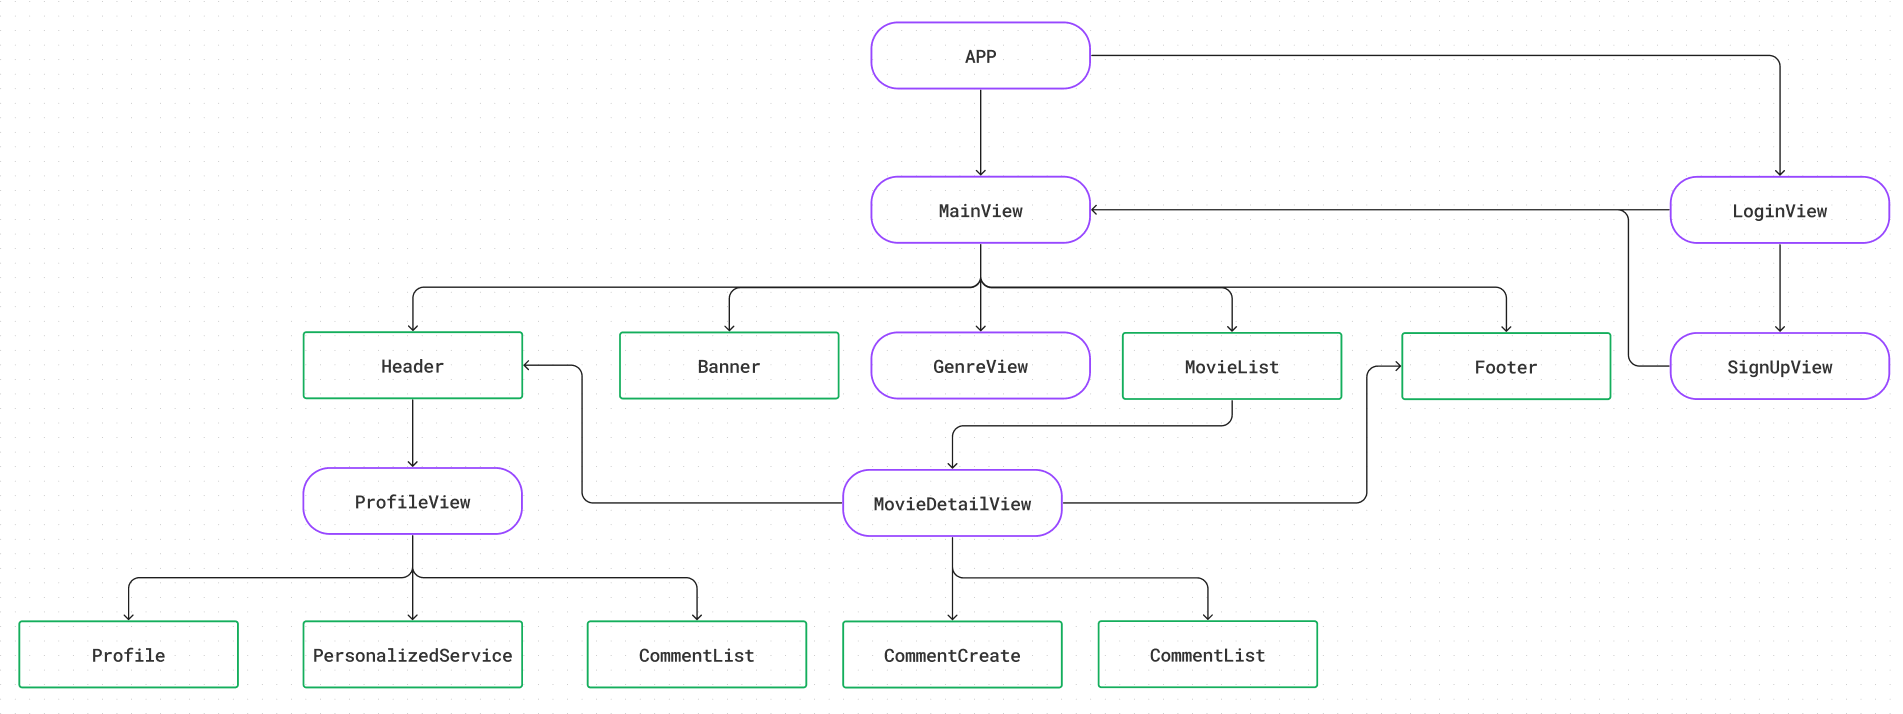
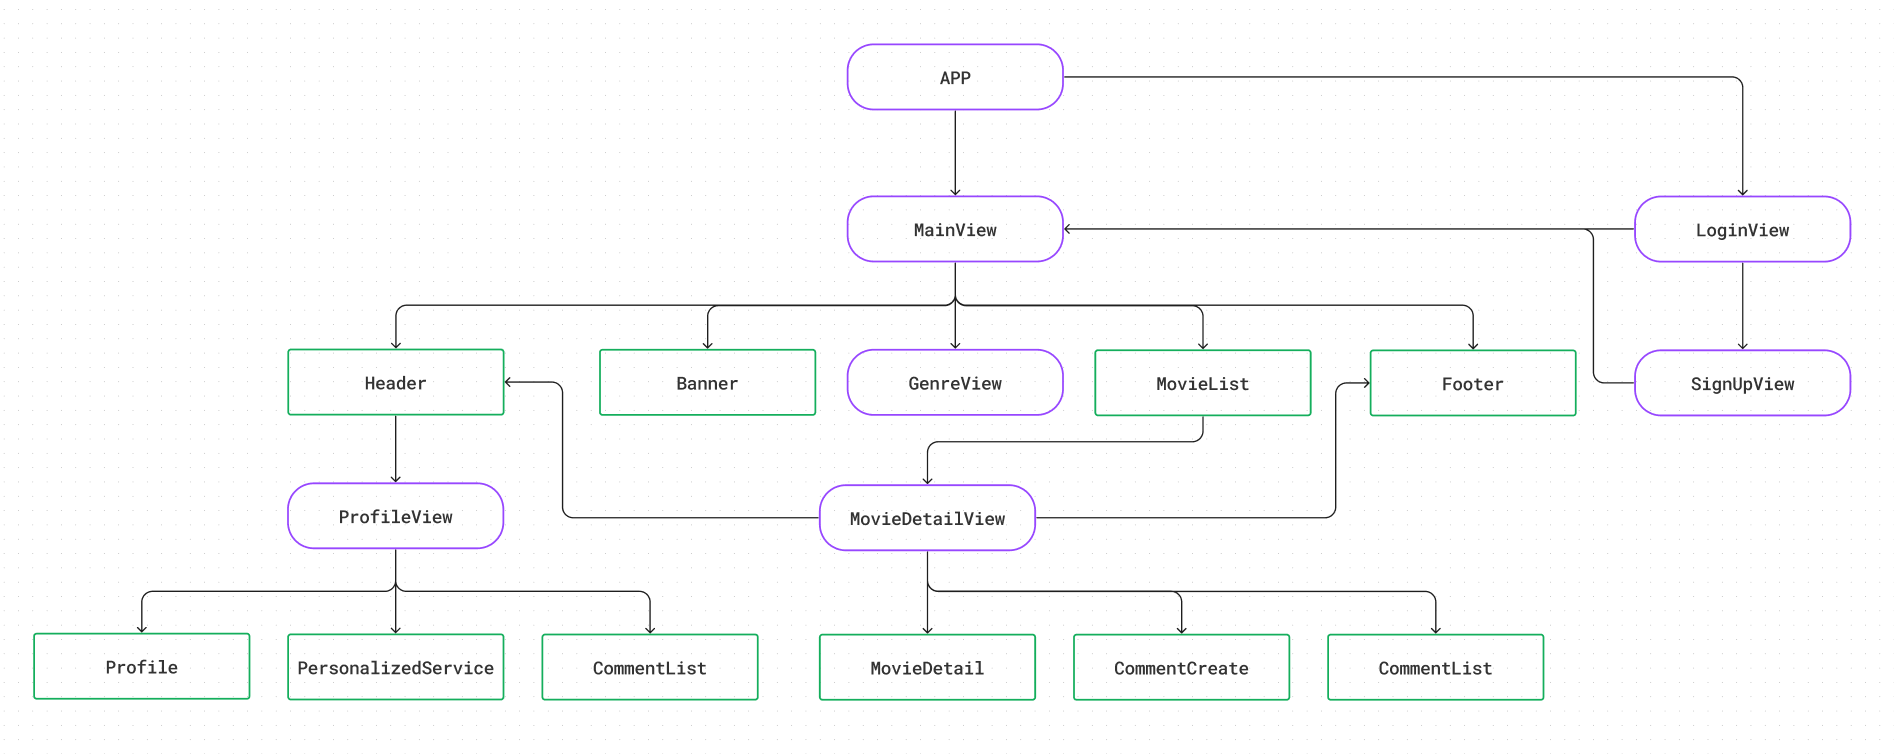
README

diff --git a/front/final_pjt_front/src/App.vue b/front/final_pjt_front/src/App.vue
@@ -1,45 +1,17 @@
 <template>
   <header>
-    <div class="wrapper">
-      <Headers />
+    <div>
+      <RouterView />
     </div>
   </header>
-  <hr>
-  <RouterView />
-  <hr>
-  <Footers />
 </template>
 
 <script setup>
-// import { RouterLink, RouterView } from 'vue-router'
-import MainView from '@/views/MainView.vue'
-import { RouterView } from 'vue-router';
-import Headers from '@/components/Headers.vue'
-import Footers from '@/components/Footers.vue'
+  import { RouterLink, RouterView } from 'vue-router'
 </script>
 
 <style scoped>
-.wrapper {
-  max-width: 1200px;
-  margin: 0 auto;
-  padding: 1rem;
-}
 
-nav {
-  display: flex;
-  justify-content: center;
-  background-color: #333;
-  padding: 1rem 0;
-}
 
-nav a {
-  color: #fff;
-  text-decoration: none;
-  margin: 0 1rem;
-  font-weight: bold;
-}
 
-nav a:hover {
-  text-decoration: underline;
-}
 </style>

diff --git a/front/final_pjt_front/src/views/MainView.vue b/front/final_pjt_front/src/views/MainView.vue
@@ -1,28 +1,36 @@
 <template>
   <div>
+    <Headers />
     <h1>메인 뷰</h1>
     <Banner />
     <hr>
     <button @click="goPage('genre')">장르 뷰</button>
     <MovieList />
     <MovieList />
+    <footers />
   </div>
 </template>
 
 <script setup>
+  import Headers from '@/components/Headers.vue'
   import Banner from '@/components/Banner.vue'
   // import GenreView from '@/views/GenreView.vue'
   import MovieList from '@/components/MovieList.vue'
+  import Footers from '@/components/Footers.vue'
 
   import { useRouter } from 'vue-router'
   const router = useRouter()
 
   const goPage = function (pageName) {
-    router.push({name: pageName, params: {genre: 2}})
+    router.push({name: pageName, params: {genre: 'romance'}})
   }
 
 </script>
 
 <style scoped>
-
+.wrapper {
+  max-width: 1200px;
+  margin: 0 auto;
+  padding: 1rem;
+}
 </style>

diff --git a/front/final_pjt_front/src/components/Headers.vue b/front/final_pjt_front/src/components/Headers.vue
@@ -1,13 +1,15 @@
 <template>
   <div>
-    <h1>헤더</h1>
-    <button @click="goPage('profile')">프로필 뷰</button>
+    <header class="header-container">
+      <h1>헤더</h1>
+      <img src="@/assets/logo/logo1.png"  alt="">
+      <a @click="goPage('profile')">프로필 뷰</a>
+    </header>
   </div>
 </template>
 
 <script setup>
   import ProfileView from '@/views/ProfileView.vue'
-
   import { useRouter } from 'vue-router'
   const router = useRouter()
 
@@ -17,5 +19,27 @@
 </script>
 
 <style scoped>
+  .header-container {
+    display: flex;
+    justify-content: center;
+    background-color: aqua;
+    
+  }
 
+  .nav {
+
+  
+  background-color: #f1efef;
+}
+
+nav a {
+  color: #fff;
+  text-decoration: none;
+  margin: 0 1rem;
+  font-weight: bold;
+}
+
+nav a:hover {
+  text-decoration: underline;
+}
 </style>

diff --git a/front/final_pjt_front/src/views/MovieDetailView.vue b/front/final_pjt_front/src/views/MovieDetailView.vue
@@ -1,17 +1,23 @@
 <template>
   <div>
+    <Headers />
     <h1>무비 디테일 뷰</h1>
     <h3>한줄평</h3>
     <h4>작성</h4>
+    <MovieDetail />
     <CommentCreate />
     <h4>조회</h4>
     <CommentList />
+    <Footers />
   </div>
 </template>
 
 <script setup>
+  import Headers from '@/components/Headers.vue'
+  import MovieDetail from '@/components/MovieDetail.vue'
   import CommentCreate from '@/components/CommentCreate.vue'
   import CommentList from '@/components/CommentList.vue'
+  import Footers from '@/components/Footers.vue'
 </script>
 
 <style scoped>

diff --git a/front/final_pjt_front/src/views/ProfileView.vue b/front/final_pjt_front/src/views/ProfileView.vue
@@ -1,15 +1,20 @@
 <template>
   <div>
+    <Headers />
     <h1>프로필 뷰</h1>
+    <ProfileDetail />
     <PersonalizedService />
     <CommentList />
+    <Footers />
   </div>
 </template>
 
 <script setup>
+  import Headers from '@/components/Headers.vue'
   import ProfileDetail from '@/components/ProfileDetail.vue'
   import PersonalizedService from '@/components/PersonalizedService.vue'
   import CommentList from '@/components/CommentList.vue'
+  import Footers from '@/components/Footers.vue'
 </script>
 
 <style scoped>

diff --git a/front/final_pjt_front/index.html b/front/final_pjt_front/index.html
@@ -6,7 +6,7 @@
     <meta name="viewport" content="width=device-width, initial-scale=1.0">
     <title>Vite App</title>
   </head>
-  <body>
+  <body style="margin: 0; padding: 0;">
     <div id="app"></div>
     <script type="module" src="/src/main.js"></script>
   </body>

diff --git a/front/final_pjt_front/src/views/GenreView.vue b/front/final_pjt_front/src/views/GenreView.vue
@@ -1,10 +1,14 @@
 <template>
   <div>
+    <Headers />
     <h1>장르 뷰</h1>
+    <Footers />
   </div>
 </template>
 
 <script setup>
+  import Headers from '@/components/Headers.vue'
+  import Footers from '@/components/Footers.vue'
 
 </script>
 

diff --git a/front/final_pjt_front/src/components/MovieDetail.vue b/front/final_pjt_front/src/components/MovieDetail.vue
@@ -1,0 +1,13 @@
+<template>
+  <div>
+    <h1>무비 디테일 컴포넌트</h1>
+  </div>
+</template>
+
+<script setup>
+
+</script>
+
+<style scoped>
+
+</style>

diff --git a/README.md b/README.md
@@ -1,5 +1,16 @@
 ### TEAM<hr>
-> `대전 2반 9조` - 박수형, **전소현**
+> `대전 2반 9조`
+- 박수형
+    - 구현 목록 초안
+    - `Front` - Vue Components Tree 초안
+    - `Back` - ERD 1차 수정
+
+- **전소현**
+    - 구현 목록 1차 수정
+    - `Logo` - 제작
+    - `Back` - ERD 초안
+    - `Front, Back` - Project, App 생성
+    - `Front` - Vue Components Tree 완성
 
 
 ### PLAN<hr>
@@ -11,6 +22,9 @@
     - 기술 스택 : Vue, Django
     - 일정 및 업무 부담
         - 23.11.16 (목) : 가이드 라인 확립 (설계서, 구조도, ERD, DB 등)
+        - 23.11.17 (금)
+            - `Front` : Components Tree 에 따라 Vue Project 구체화
+            - `back` : TMDB 데이터를 이용하여 Dummy Data 생성, Serializer 작성 후 의도대로 동작하는지 확인
 
 ### REFERENCE<hr>
 [css animation](https://animate.style/)<br>
@@ -19,9 +33,9 @@
 ### Front-End<hr>
 - Components Tree<br>
     - 초안<br>
-    <img src="assets/components/components1.png" width="70%">
+    <img src="assets/components/components1.png" width="70%"><br>
     - 1차 수정안<br>
-    <img src="assets/components/components2.png" width="70%">
+    <img src="assets/components/components2.png" width="70%"><br>
 
 - UI/UX<br>
     <img src="assets/wire_frame/login_page.png">
